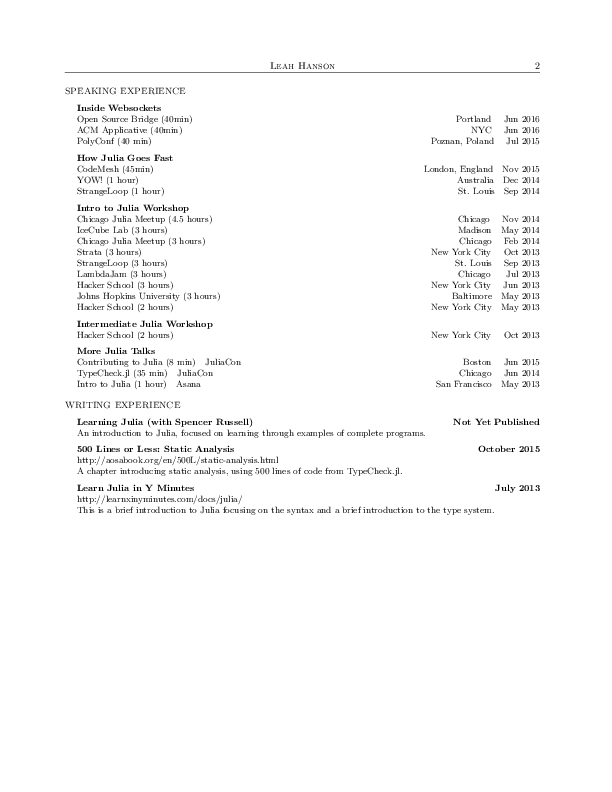
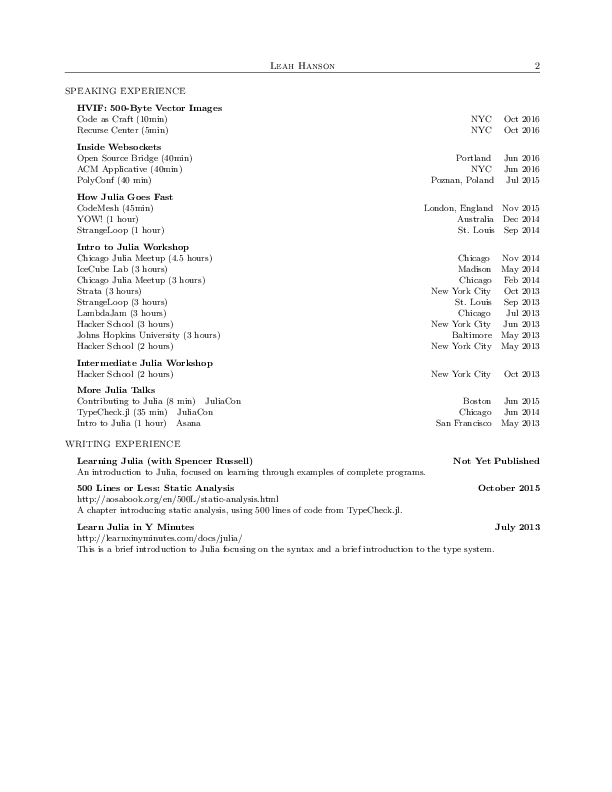
Update resume with end of RC

Changed region(s): [[0.1242, 0.1212, 0.7141, 0.697], [0.683, 0.1212, 0.9003, 0.697]]

diff --git a/main.tex b/main.tex
@@ -22,12 +22,12 @@
   \begin{tabular2}
    Participated in a 12 week self-directed programming workshop \\
    Solved Project Rosalind problems & Go \\
-   Explored details of the Haiku operating system & C++ \\
+   Explored details of the Haiku Vector Icon Format & C++ \\
    Paired on optimizing the performance of a Go game implementation & Python \\
    Paired on understanding and parsing bplists & C \\
-   Implemented the Raft consensus algorithm & Julia \\
+   Implemented the Raft consensus algorithm & Go \\
    Worked through parts of a Statics and a Linear Algebra textbook & Math \\
-   And 2 more weeks to go!\\
+   Paired on building a neural network to generate text in the same style as what it reads & Python, Tensorflow\\
   \end{tabular2}
 
  \item
@@ -202,6 +202,15 @@
 \section*{Speaking Experience}
 
 \begin{list1}
+ \item
+ \begin{tabular1bold}
+ HVIF: 500-Byte Vector Images \\
+ \end{tabular1bold}
+ \begin{tabular2}
+ Code as Craft (10min) & NYC \mbox{ }\mbox{ } Oct 2016\\
+ Recurse Center (5min) & NYC \mbox{ }\mbox{ } Oct 2016\\
+ \end{tabular2}
+
  \item
  \begin{tabular1bold}
  Inside Websockets \\
